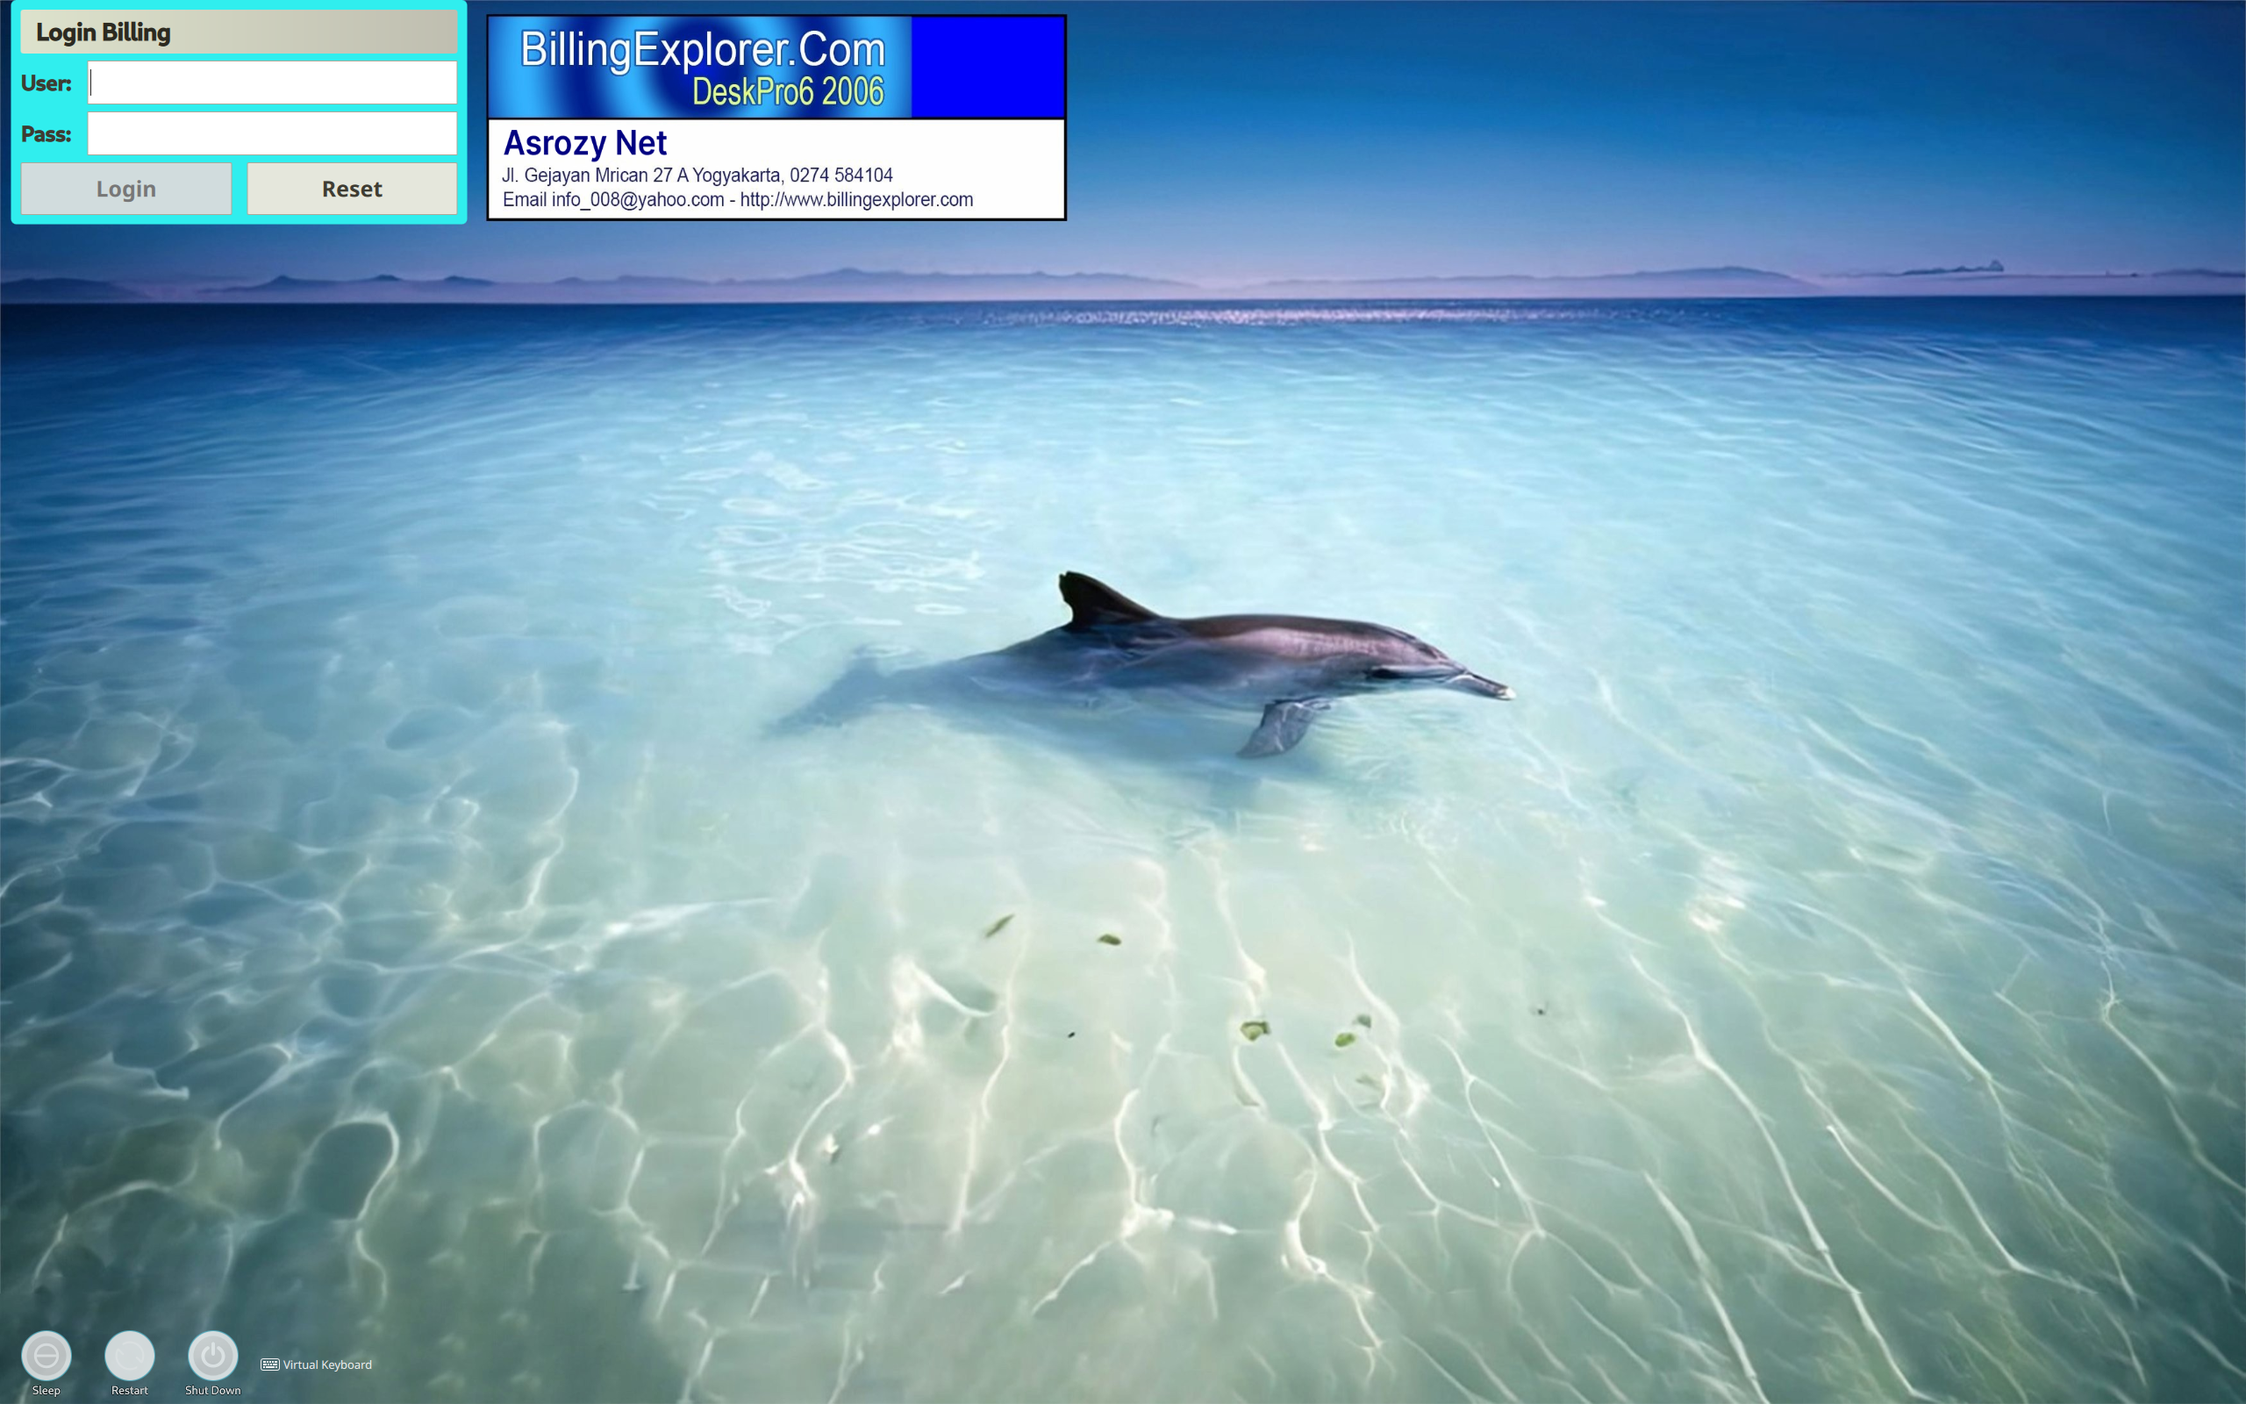
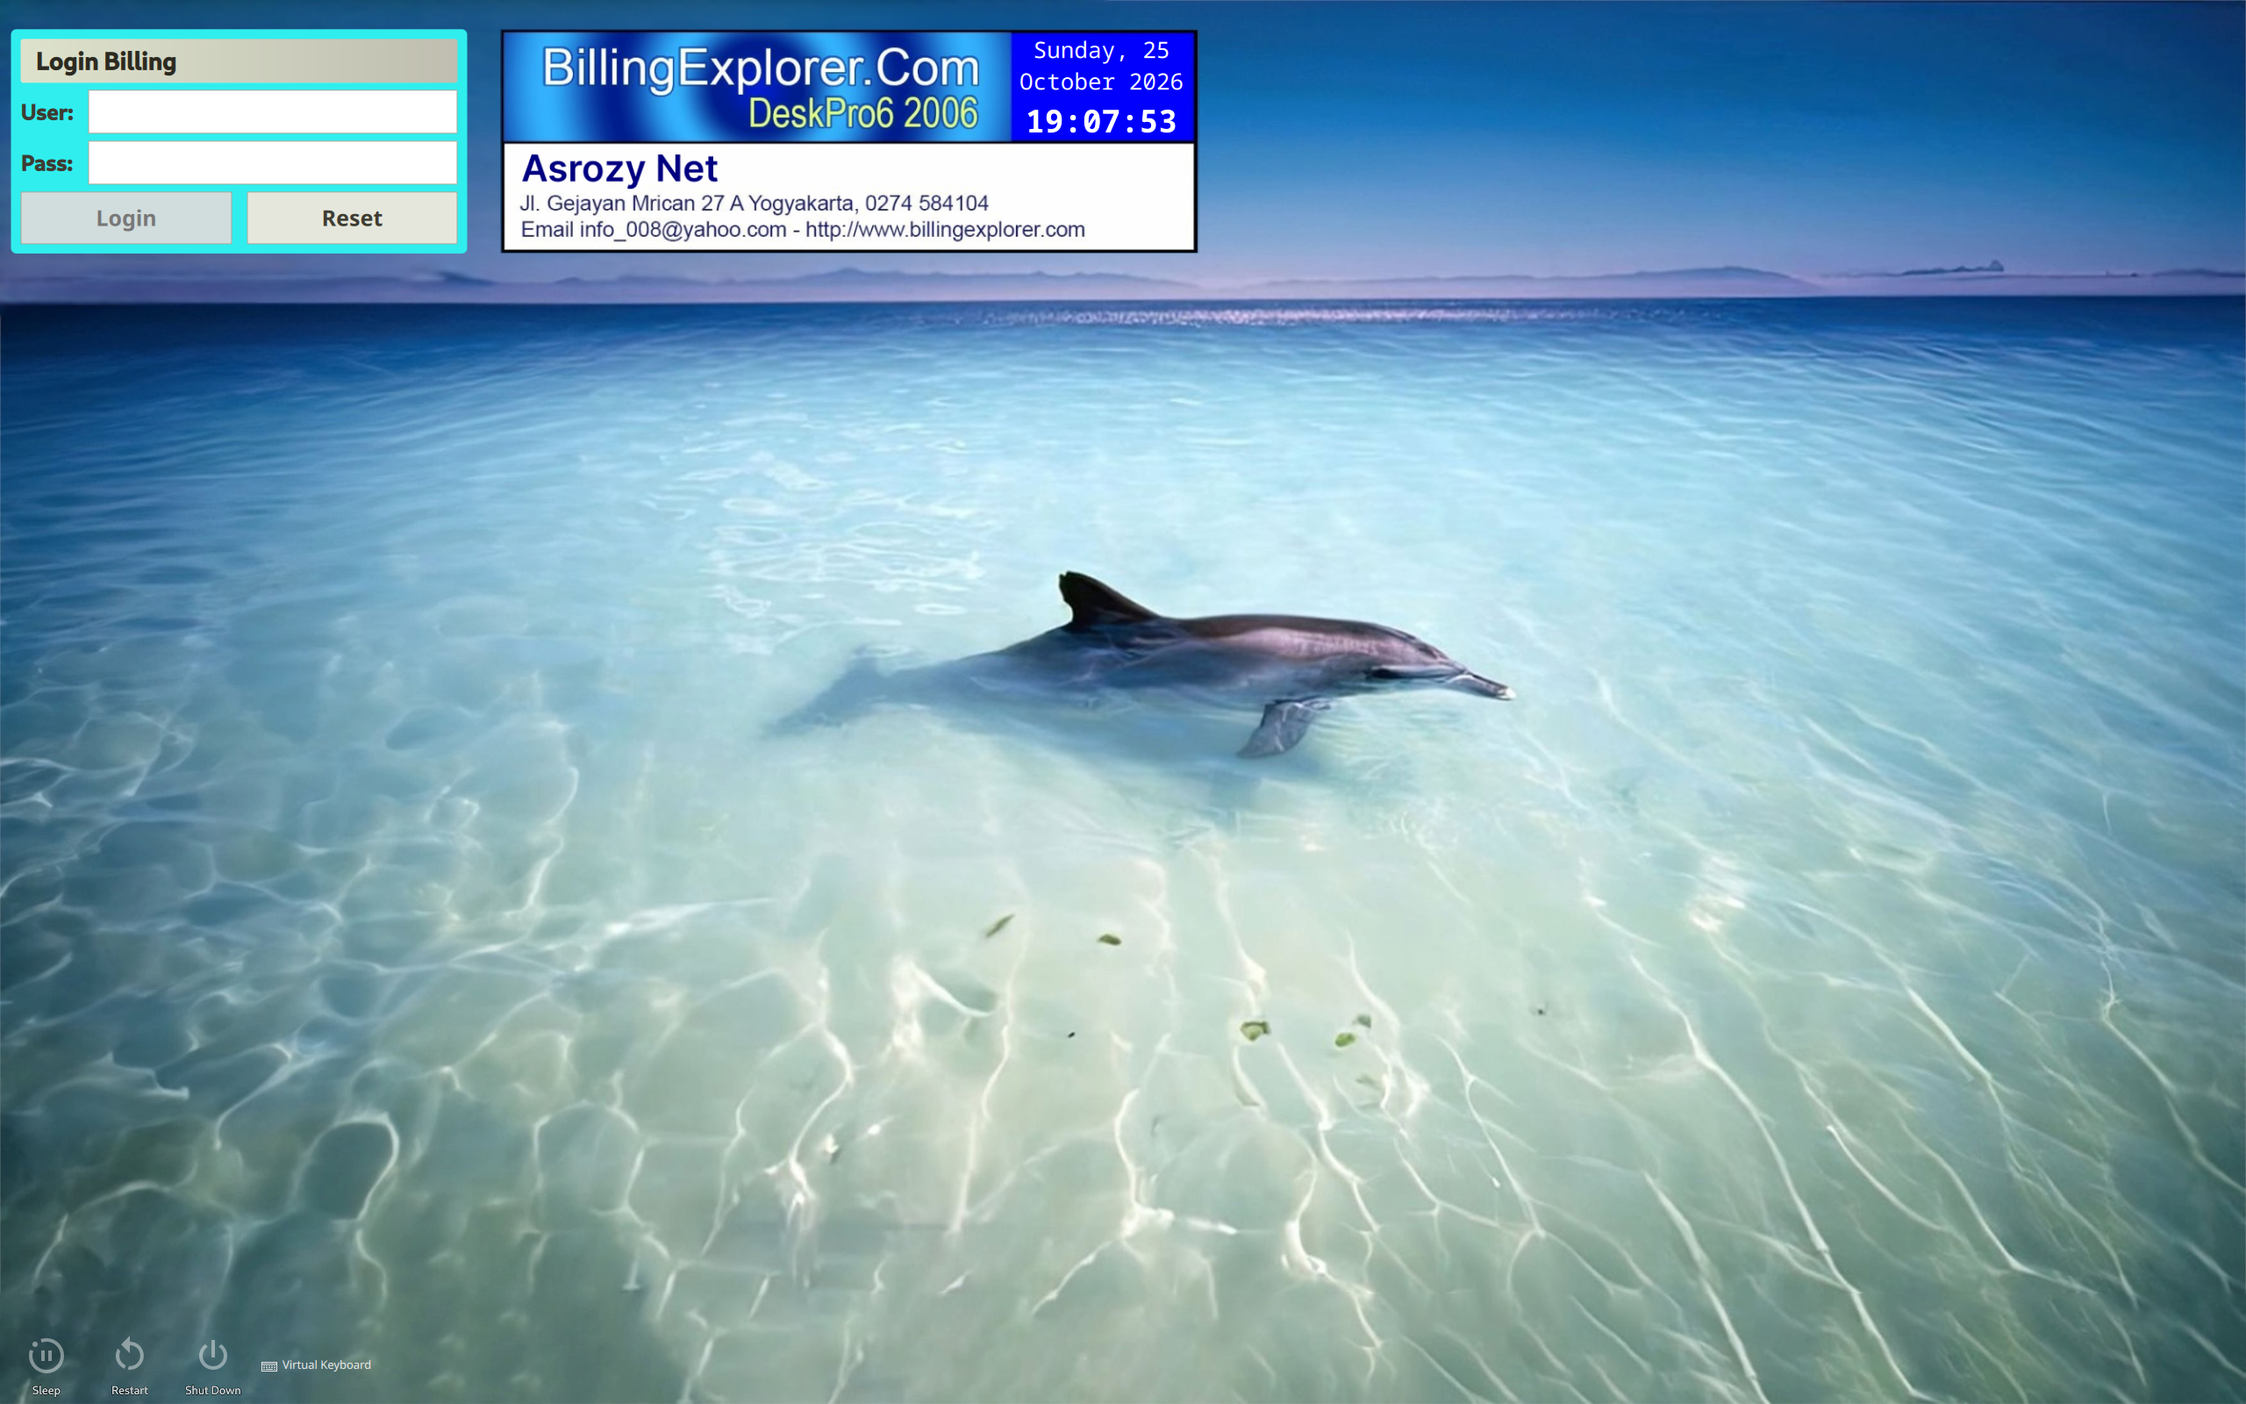
Enhance Dolphin Billing Warnet theme with new assets and features
- Updated KeyboardButton.qml to handle null layout names gracefully.
- Added PlasmaCore import in Login.qml for better integration.
- Enhanced Main.qml with a new branding image and integrated digital clock.
- Replaced old background image with a new one and removed unused assets.
- Improved ActionButton.qml styles for better visibility.
- Removed deprecated Clock.qml component.
- Modified install.sh to clean up unnecessary files post-installation.
- Updated metadata.desktop to reflect the new theme ID.
- Adjusted theme.conf.user to include lockout duration settings.

Changed region(s): [[0.0, 0.0, 0.5312, 0.2188], [0.0, 0.9375, 0.1562, 1.0]]

diff --git a/Main.qml b/Main.qml
@@ -1,6 +1,7 @@
 /*
  *   Theme: Dolphin Billing Warnet
  *   Author: M Faisal A
+ *   Source: https://github.com/asrozy98/Billing-Warnet-KDE-SDDM
  *   Based on Sweet-Mars-Plasma6 SDDM theme
  */
 
@@ -9,6 +10,7 @@ import QtQuick.Layouts 1.15
 import QtQuick.Controls 2.15
 import org.kde.plasma.plasma5support 2.0 as PlasmaCore
 import org.kde.plasma.components 3.0 as PlasmaComponents
+import org.kde.plasma.workspace.keyboardlayout as Keyboards
 
 import Qt5Compat.GraphicalEffects
 import org.kde.kirigami 2.20 as Kirigami
@@ -28,7 +30,6 @@ Item {
     height: 900
 
     property string notificationMessage
-    property string clock_color: "#ffffff"
 
     property int failedAttempts: 0
     property int lockoutRemaining: 0
@@ -52,14 +53,73 @@ Item {
         interval: 1000
     }
 
-    // ─── Background (full screen, user-provided image) ─────────────────────────
+    // ─── Background (full screen, clean wallpaper) ─────────────────────────
     Image {
         id: wallpaper
         anchors.fill: parent
-        source: config.background || config.Background
+        source: "assets/bg.jpg"
         fillMode: Image.Stretch
         asynchronous: true
         cache: true
+    }
+
+    // ─── Branding Header Image (billing.png) ──────────────────────────────────
+    // Placed right next to the login box (scaled proportionally)
+    Image {
+        id: brandingImage
+        source: "assets/billing.png"
+        x: scaledBox1X + scaledBox1W + Math.round(15 * scaleX)
+        y: scaledBox1Y
+        width: scaledBox1H * (907 / 291) // Maintain aspect ratio based on height
+        height: scaledBox1H
+        fillMode: Image.Stretch
+        asynchronous: true
+        cache: true
+        z: 10
+
+        // Digital Clock positioned precisely in the solid blue box of billing.png
+        // Digital Clock & Date positioned precisely in the solid blue box of billing.png
+        Column {
+            id: clockColumn
+            x: brandingImage.width * 0.735
+            y: brandingImage.height * 0.02
+            width: brandingImage.width * 0.25
+            spacing: 2
+            
+            Text {
+                id: dateText
+                width: parent.width
+                text: Qt.formatDate(new Date(), "dddd, d\nMMMM yyyy")
+                color: "#FFFFFF"
+                font.family: "Monospace"
+                font.pixelSize: Math.max(7, Math.round(brandingImage.height * 0.10))
+                horizontalAlignment: Text.AlignHCenter
+                verticalAlignment: Text.AlignVCenter
+            }
+            
+            Text {
+                id: timeText
+                width: parent.width
+                text: Qt.formatTime(new Date(), "hh:mm:ss")
+                color: "#FFFFFF"
+                font.bold: true
+                font.family: "Monospace"
+                font.pixelSize: Math.max(8, Math.round(brandingImage.height * 0.14))
+                horizontalAlignment: Text.AlignHCenter
+                verticalAlignment: Text.AlignVCenter
+            }
+        }
+        
+        Timer {
+            interval: 1000
+            running: true
+            repeat: true
+            onTriggered: {
+                var d = new Date();
+                dateText.text = Qt.formatDate(d, "dddd, d\nMMMM yyyy")
+                timeText.text = Qt.formatTime(d, "hh:mm:ss")
+            }
+        }
     }
 
     // ─── Coordinates mapping for top-left box overlay ──────────────────────────
@@ -87,7 +147,7 @@ Item {
 
         property bool uiVisible: true
         property bool blockUI: userListComponent.mainPasswordBox.text.length > 0 ||
-                               inputPanel.keyboardActive || config.type != "image"
+                               Keyboards.KWinVirtualKeyboard.visible || config.type != "image"
 
         hoverEnabled: true
         drag.filterChildren: true
@@ -101,7 +161,7 @@ Item {
             if (blockUI) { fadeoutTimer.running = false; uiVisible = true }
             else fadeoutTimer.restart()
         }
-        Keys.onPressed: { uiVisible = true; event.accepted = false }
+        Keys.onPressed: function(event) { uiVisible = true; event.accepted = false }
 
         Timer {
             id: fadeoutTimer
@@ -113,6 +173,11 @@ Item {
         // ═══════════════════════════════════════════════════════════════════════
         // Form Login (overlayed exactly on the top-left box)
         // ═══════════════════════════════════════════════════════════════════════
+
+        // Digital Clock positioned precisely on the solid blue box region of the background image
+        // Scaled dynamically relative to root.width and root.height for absolute precision on any resolution
+        // (Removed in favor of integrated clock in brandingImage)
+        
         StackView {
             id: mainStack
             x: scaledBox1X
@@ -137,7 +202,9 @@ Item {
 
                 notificationMessage: {
                     var text = ""
-                    if (keystateSource.data["Caps Lock"]["Locked"]) {
+                    // data belum siap saat pertama render → jangan TypeError
+                    var caps = keystateSource.data["Caps Lock"] || {}
+                    if (caps["Locked"]) {
                         text += i18nd("plasma_lookandfeel_org.kde.lookandfeel", "Caps Lock is on")
                         if (root.notificationMessage) text += " • "
                     }
@@ -156,16 +223,6 @@ Item {
             Behavior on opacity { OpacityAnimator { duration: 250 } }
         }
 
-        // ─── Virtual Keyboard ─────────────────────────────────────────────────
-        VirtualKeyboardLoader {
-            id: inputPanel
-            z: 1
-            screenRoot: root
-            mainStack: mainStack
-            mainBlock: userListComponent
-            passwordField: userListComponent.mainPasswordBox
-        }
-
         // ─── Footer (Sleep / Restart / Shutdown + Session + Keyboard) ─────────
         RowLayout {
             id: footer
@@ -177,38 +234,42 @@ Item {
             Behavior on opacity { OpacityAnimator { duration: 250 } }
 
             ActionButton {
-                iconSource: Qt.resolvedUrl("assets/suspend.svgz")
+                iconSource: Qt.resolvedUrl("assets/suspend.svg")
                 text: i18ndc("plasma_lookandfeel_org.kde.lookandfeel", "Suspend to RAM", "Sleep")
                 onClicked: sddm.suspend()
                 enabled: sddm.canSuspend
-                visible: !inputPanel.keyboardActive
+                visible: !Keyboards.KWinVirtualKeyboard.visible
             }
             ActionButton {
-                iconSource: Qt.resolvedUrl("assets/restart.svgz")
+                iconSource: Qt.resolvedUrl("assets/restart.svg")
                 text: i18nd("plasma_lookandfeel_org.kde.lookandfeel", "Restart")
                 onClicked: sddm.reboot()
                 enabled: sddm.canReboot
-                visible: !inputPanel.keyboardActive
+                visible: !Keyboards.KWinVirtualKeyboard.visible
             }
             ActionButton {
-                iconSource: Qt.resolvedUrl("assets/shutdown.svgz")
+                iconSource: Qt.resolvedUrl("assets/shutdown.svg")
                 text: i18nd("plasma_lookandfeel_org.kde.lookandfeel", "Shut Down")
                 onClicked: sddm.powerOff()
                 enabled: sddm.canPowerOff
-                visible: !inputPanel.keyboardActive
+                visible: !Keyboards.KWinVirtualKeyboard.visible
             }
 
             PlasmaComponents.ToolButton {
                 text: i18ndc("plasma_lookandfeel_org.kde.lookandfeel",
                              "Button to show/hide virtual keyboard", "Virtual Keyboard")
                 font.pointSize: config.fontSize
-                icon.name: inputPanel.keyboardActive
+                icon.name: Keyboards.KWinVirtualKeyboard.visible
                            ? "input-keyboard-virtual-on" : "input-keyboard-virtual-off"
                 onClicked: {
-                    userListComponent.mainPasswordBox.forceActiveFocus()
-                    inputPanel.showHide()
+                    if (Keyboards.KWinVirtualKeyboard.visible) {
+                        Keyboards.KWinVirtualKeyboard.active = false
+                    } else {
+                        // fokuskan password dulu, keystroke OSK bisa "dimakan" kalau tidak
+                        userListComponent.mainPasswordBox.forceActiveFocus()
+                        Keyboards.KWinVirtualKeyboard.forceActivate()
+                    }
                 }
-                visible: inputPanel.status == Loader.Ready
             }
 
             KeyboardButton {}
@@ -265,7 +326,11 @@ Item {
         z: 100
         onClosed: {
             root.notificationMessage = ""
-            userListComponent.mainPasswordBox.forceActiveFocus()
+            // defer focus until the dialog is really hidden, otherwise its focus:true wins
+            Qt.callLater(function() {
+                userListComponent.mainPasswordBox.forceActiveFocus()
+                userListComponent.mainPasswordBox.selectAll()
+            })
         }
     }
 }

diff --git a/components/ActionButton.qml b/components/ActionButton.qml
@@ -43,10 +43,10 @@ Item {
         width: iconSize + Kirigami.Units.smallSpacing
         height: width
         radius: width / 2
-        color: root.activeFocus || containsMouse ? "#C8E6EF" : "#ffffff" // Matching cyan/white tones
-        border.color: "#5ABBD0" // Sharp cyan border
+        color: root.activeFocus || containsMouse ? "#5ABBD0" : "transparent" // Matching cyan/white tones
+        border.color: root.activeFocus || containsMouse ?"#5ABBD0" : "transparent"// Sharp cyan border
         border.width: 1
-        opacity: 0.9 // Highly solid background
+        opacity: 1 // Highly solid background
         Behavior on opacity {
             PropertyAnimation {
                 duration: Kirigami.Units.longDuration
@@ -62,7 +62,7 @@ Item {
         radius: width / 2
         scale: mouseArea.containsPress ? 1 : 0
         color: "#5ABBD0"
-        opacity: 0.3
+        opacity: 1
         Behavior on scale {
             PropertyAnimation {
                 duration: Kirigami.Units.shortDuration
@@ -79,8 +79,10 @@ Item {
         }
         width: iconSize
         height: iconSize
-        opacity: enabled ? 1.0 : 0.4 // High contrast icons
+        opacity: 1
         active: mouseArea.containsMouse || root.activeFocus
+        // Warna kontras tinggi (biru sangat pekat/hampir hitam) agar terlihat jelas di atas background cyan
+        color: active ? "#002030" : "#8396a0" 
     }
 
     PlasmaComponents3.Label {

diff --git a/KeyboardButton.qml b/KeyboardButton.qml
@@ -16,7 +16,7 @@ PlasmaComponents.ToolButton {
     property int currentIndex: keyboard.currentLayout
     onCurrentIndexChanged: keyboard.currentLayout = currentIndex
 
-    text: i18nd("plasma_lookandfeel_org.kde.lookandfeel", "Keyboard Layout: %1", keyboard.layouts[currentIndex].longName)
+    text: i18nd("plasma_lookandfeel_org.kde.lookandfeel", "Keyboard Layout: %1", keyboard.layouts[currentIndex]?.longName ?? "")
     visible: keyboard.layouts.length > 1
 
     checkable: true

diff --git a/Login.qml b/Login.qml
@@ -1,6 +1,7 @@
 import QtQuick 2.15
 import QtQuick.Layouts 1.15
 import QtQuick.Controls 2.15
+import org.kde.plasma.plasma5support 2.0 as PlasmaCore
 
 FocusScope {
     id: root

diff --git a/README.md b/README.md
@@ -1,10 +1,10 @@
 # Dolphin Billing Warnet SDDM Theme
 
-A nostalgic, retro Indonesian warnet (internet cafe) billing styled theme for SDDM (Simple Desktop Display Manager) built for modern systems running KDE Plasma / Qt6 / Qt5. 
+A nostalgic, retro Indonesian warnet (internet cafe) billing styled theme for SDDM (Simple Desktop Display Manager) built for modern systems running KDE Plasma / Qt6 / Qt5.
 
 ![Preview Image](preview.png)
 
-Developed by **M Faisal Asrozy** ([@asrozy98](https://github.com/asrozy98)), based on the open source SDDM theme.
+Developed by **M Faisal Asrozy** ([@asrozy98](https://github.com/asrozy98)), based on the Sweet-Mars-Plasma6 SDDM theme ([GitHub Source](https://github.com/vaxerski/sweet-mars-plasma6)).
 
 ## Features
 
@@ -24,7 +24,7 @@ Developed by **M Faisal Asrozy** ([@asrozy98](https://github.com/asrozy98)), bas
    ```bash
    sudo ./install.sh
    ```
-   *The installer script will copy the files to `/usr/share/sddm/themes/` and automatically scan your system's `/etc/security/faillock.conf` to set the correct lockout parameters (maximum attempts and lockout duration) in the configuration.*
+   _The installer script will copy the files to `/usr/share/sddm/themes/` and automatically scan your system's `/etc/security/faillock.conf` to set the correct lockout parameters (maximum attempts and lockout duration) in the configuration._
 
 ### Manual Installation
 
@@ -36,8 +36,8 @@ Developed by **M Faisal Asrozy** ([@asrozy98](https://github.com/asrozy98)), bas
    ```ini
    [General]
    # ...
-   lockoutAttempts=3   # Max failed attempts before locking
-   lockoutDuration=60 # Lockout duration in seconds
+   lockoutAttempts=3     # Max failed attempts before locking
+   lockoutDuration=600   # Lockout duration in seconds (default: match OS)
    ```
 
 ## Activating the Theme
@@ -45,16 +45,20 @@ Developed by **M Faisal Asrozy** ([@asrozy98](https://github.com/asrozy98)), bas
 After installation, activate the theme using one of the following methods:
 
 ### Via KDE System Settings
+
 1. Go to **System Settings** -> **Colors & Themes** -> **Login Screen (SDDM)**.
 2. Select **Dolphin Billing Warnet** from the theme list.
 3. Click **Apply**.
 
 ### Via SDDM Configuration File
+
 Edit `/etc/sddm.conf` (or your active config file inside `/etc/sddm.conf.d/`) and set the theme in the `[Theme]` section:
+
 ```ini
 [Theme]
 Current=Billing-Warnet
 ```
 
 ---
-*Created with nostalgia and care by M Faisal Asrozy*
+
+_Created with nostalgia and care by M Faisal Asrozy_
